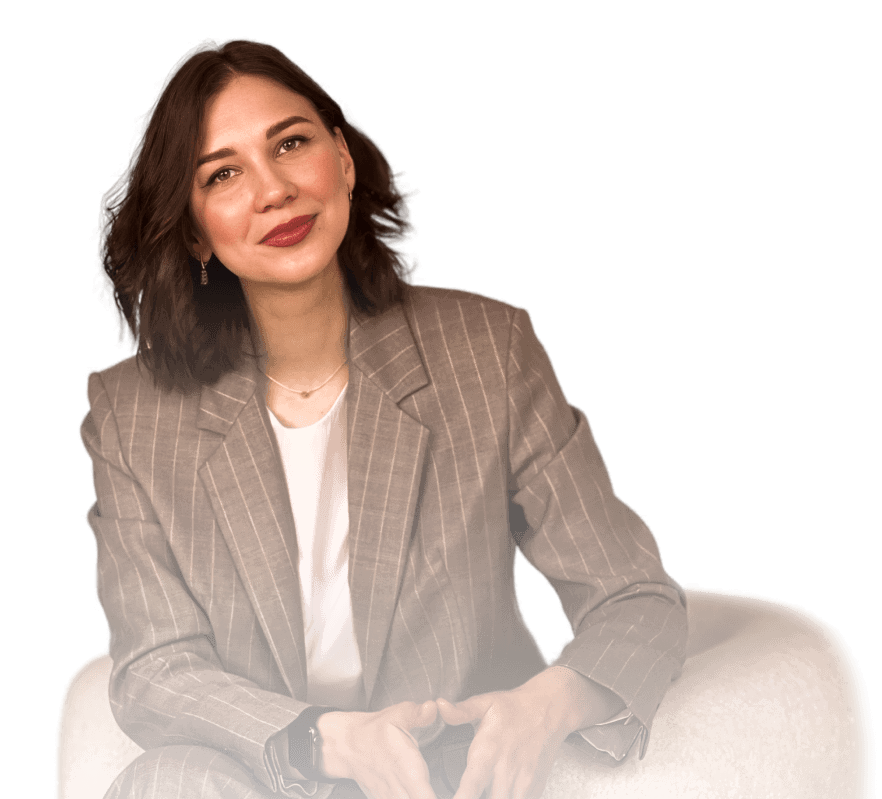
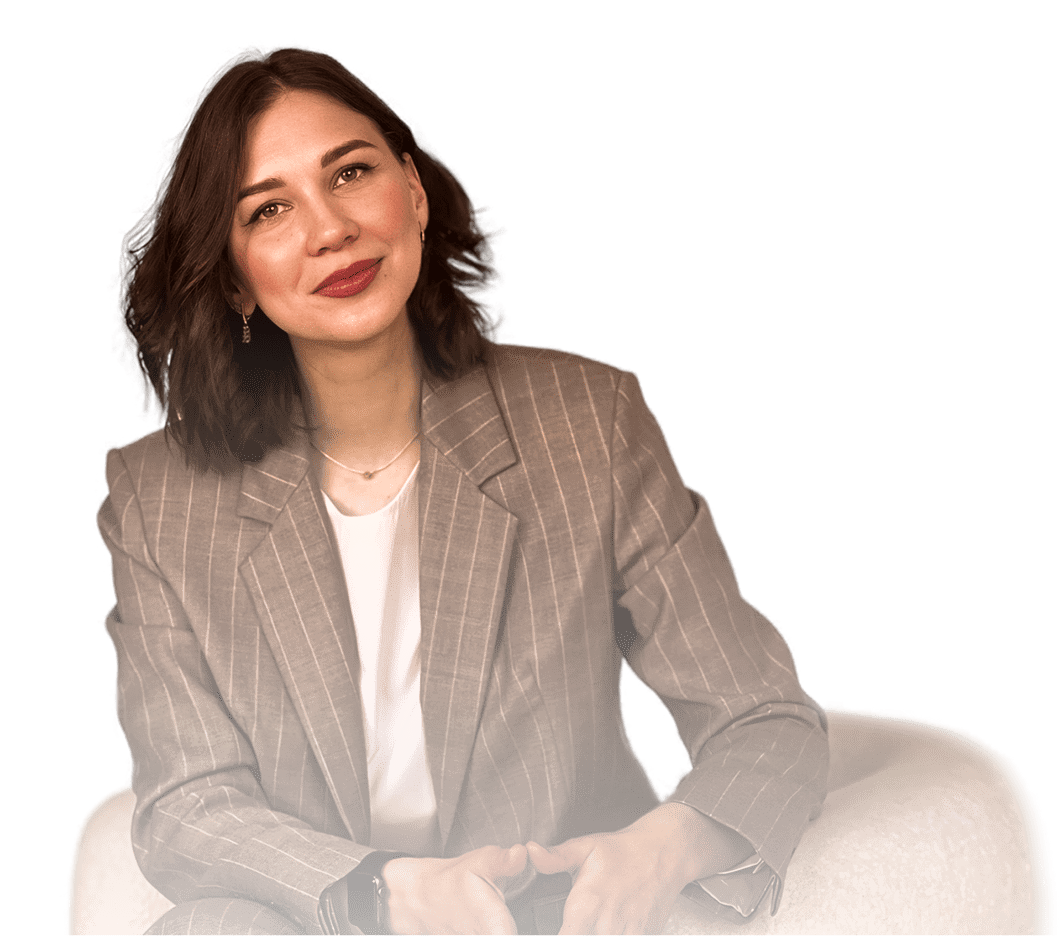
feature/стилизовать входной экран для десктопа

diff --git a/src/styles/layout/_header.scss b/src/styles/layout/_header.scss
@@ -1,35 +1,39 @@
 @use '../utils/helpers' as *;
 
 .header {
+  overflow: hidden;
   background: url(src/assets/img/header-bg.jpg) no-repeat top center scroll $color-light;
   background-size: cover;
 }
 
 .header__wrapper {
+  @extend %d-flex-column;
+  position: relative;
   padding: 356px 0 40px;
   background: url(src/assets/img/header-pic-mobile.png) no-repeat scroll -60px bottom rgba(0,0,0,0);
 
   @media #{$breakpoint-up-sm} {
+    gap: 45px 0;
     padding: 285px 0 0;
     background-position: right bottom;
     background-image: url(src/assets/img/header-pic-tablet.png);
   }
 
   @media #{$breakpoint-up-md} {
-    padding: 144px 0 0;
-    background-image: url(src/assets/img/header-pic.png);
-  }
-}
-
-.header__container {
-  @extend %d-flex-column;
-
-  @media #{$breakpoint-up-sm} {
-    gap: 45px 0;
-  }
-
-  @media #{$breakpoint-up-md} {
     gap: 60px 0;
+    padding: 144px 0 0;
+    background-image: url(src/assets/img/header-pic-desktop.png);
+  }
+
+  @media #{$breakpoint-up-lg} {
+    gap: 52px 0;
+    background-position: center bottom;
+  }
+
+  @media #{$breakpoint-up-xl} {
+    gap: 90px 0;
+    padding: 218px 0 0;
+    background-image: url(src/assets/img/header-pic.png);
   }
 }
 
@@ -42,15 +46,24 @@
   @media #{$breakpoint-up-sm} {
     display: grid;
     align-items: center;
-    justify-content: space-between;
     grid-template-areas:
       "reviews form"
       "title title";
     gap: 45px;
   }
 
-  @media #{$breakpoint-up-sm} {
+  @media #{$breakpoint-up-md} {
     gap: 140px;
+    justify-content: space-between;
+  }
+
+  @media #{$breakpoint-up-lg} {
+    gap: 130px;
+  }
+
+  @media #{$breakpoint-up-xl} {
+    gap: 150px;
+    max-width: 1712px;
   }
 }
 
@@ -72,10 +85,18 @@
   @media #{$breakpoint-up-md} {
     @include fs-lh(140px,120px);
   }
+
+  @media #{$breakpoint-up-lg} {
+    @include fs-lh(160px,140px);
+  }
+
+  @media #{$breakpoint-up-xl} {
+    @include fs-lh(180px,160px);
+    letter-spacing: -0.05em;
+  }
 }
 
 .header__bottom {
-  @include before;
   @include border(1px 0 0, rgba(255, 255, 255, .3));
   width: 100%;
   display: none;
@@ -89,15 +110,39 @@
     grid-template-columns: repeat(4, 1fr);
   }
 
+  @media #{$breakpoint-up-lg} {
+    border: 0;
+  }
+
+  @media #{$breakpoint-up-xl} {
+    max-width: 1712px;
+  }
+
   &:before {
+    content: '';
+
     @media #{$breakpoint-up-sm} {
-      @include pos(108px,0);
       @include wh(100%,1px);
+      position: absolute;
+      left: 0;
+      bottom: 108px;
       background-color: rgba(255, 255, 255, .3);
     }
 
     @media #{$breakpoint-up-md} {
       display: none;
+    }
+  }
+
+  &:after {
+    content: '';
+
+    @media #{$breakpoint-up-lg} {
+      @include wh(10000px,1px);
+      position: absolute;
+      left: 0;
+      bottom: 104px;
+      background-color: rgba(255, 255, 255, .3);
     }
   }
 }
@@ -122,17 +167,34 @@
   }
 
   &:nth-child(2n) {
-    border-width: 0;
+    @media #{$breakpoint-up-sm} {
+      border-width: 0;
+    }
+
+    @media #{$breakpoint-up-lg} {
+      border-width: 0 1px 0 0;
+    }
+  }
+
+  &:last-child {
+    @media #{$breakpoint-up-lg} {
+      border-width: 0;
+    }
   }
 }
 
 .header__reviews {
   display: grid;
+  justify-content: flex-start;
   grid-template-areas:
     "title title title"
     "row subtitle .";
   gap: 12px 16px;
   grid-area: reviews;
+
+  @media #{$breakpoint-up-lg} {
+    gap: 24px 16px;
+  }
 }
 
 .header__reviews-title {
@@ -141,6 +203,10 @@
   letter-spacing: -0.02em;
   color: $color-white;
   grid-area: title;
+
+  @media #{$breakpoint-up-lg} {
+    @include fs-lh(20px,24px);
+  }
 }
 
 .header__reviews-row {
@@ -182,12 +248,17 @@
   color: $color-white;
   grid-area: subtitle;
   max-width: 160px;
+
+  @media #{$breakpoint-up-lg} {
+    @include fs-lh(16px,20px);
+  }
 }
 
 .header__form {
+  @extend %d-flex-column;
   grid-area: form;
 
   @media #{$breakpoint-up-sm} {
-    max-width: 328px;
+    align-items: flex-end;
   }
 }

diff --git a/src/styles/utils/_breakpoints.scss b/src/styles/utils/_breakpoints.scss
@@ -1,29 +1,35 @@
 @use 'sass:list';
 
+$lg-max-value: 1680px;
 $md-max-value: 1365px;
 $sm-max-value: 991px;
 $xsm-max-value: 767px;
 $xxsm-max-value: 575px;
 
+$xl-min-value: $lg-max-value + 1;
 $lg-min-value: $md-max-value + 1;
 $md-min-value: $sm-max-value + 1;
 $sm-min-value: $xsm-max-value + 1;
 $xsm-min-value: $xxsm-max-value + 1;
 
+$lg-range: ($lg-min-value, $lg-max-value);
 $md-range: ($md-min-value, $md-max-value);
 $sm-range: ($sm-min-value, $sm-max-value);
 $xsm-range: ($xsm-min-value, $xsm-max-value);
 
+$breakpoint-up-xl: "(min-width: #{$xl-min-value})";
 $breakpoint-up-lg: "(min-width: #{$lg-min-value})";
 $breakpoint-up-md: "(min-width: #{$md-min-value})";
 $breakpoint-up-sm: "(min-width: #{$sm-min-value})";
 $breakpoint-up-xsm: "(min-width: #{$xsm-min-value})";
 
+$breakpoint-down-xl: "(max-width: #{$lg-max-value})";
 $breakpoint-down-lg: "(max-width: #{$md-max-value})";
 $breakpoint-down-md: "(max-width: #{$sm-max-value})";
 $breakpoint-down-sm: "(max-width: #{$xsm-max-value})";
 $breakpoint-down-xsm: "(max-width: #{$xxsm-max-value})";
 
+$breakpoint-only-lg: "(min-width: #{list.nth($lg-range, 1)}) and (max-width: #{list.nth($lg-range, 2)})";
 $breakpoint-only-md: "(min-width: #{list.nth($md-range, 1)}) and (max-width: #{list.nth($md-range, 2)})";
 $breakpoint-only-sm: "(min-width: #{list.nth($sm-range, 1)}) and (max-width: #{list.nth($sm-range, 2)})";
 $breakpoint-only-xsm: "(min-width: #{list.nth($xsm-range, 1)}) and (max-width: #{list.nth($xsm-range, 2)})";

diff --git a/src/styles/components/_nav.scss b/src/styles/components/_nav.scss
@@ -9,10 +9,6 @@
   color: $color-white;
   transition: all .3s ease;
 
-  @media #{$breakpoint-up-lg} {
-    position: static;
-  }
-
   &.is-visible {
     height: 100%;
     background-color: $color-dark;
@@ -74,6 +70,10 @@
   @media #{$breakpoint-up-lg} {
     flex-direction: row;
     justify-content: space-between;
+  }
+
+  @media #{$breakpoint-up-xl} {
+    max-width: 1712px;
   }
 }
 

diff --git a/src/styles/main.scss b/src/styles/main.scss
@@ -1,10 +1,10 @@
 @use 'base/reset';
 @use 'base/fonts';
 @use 'base/typography';
+@use 'layout/container';
+@use 'layout/section';
 @use 'layout/header';
 @use 'layout/footer';
-@use 'layout/section';
-@use 'layout/container';
 @use 'components/btn';
 @use 'components/nav';
 @use 'components/logo';

diff --git a/src/styles/components/_form.scss b/src/styles/components/_form.scss
@@ -1,5 +1,11 @@
 @use '../utils/helpers' as *;
 
+.form {
+  &.form_width_min {
+    max-width: 328px;
+  }
+}
+
 .form__fieldset {
   @extend %d-flex-column;
   border: 0;

diff --git a/src/styles/layout/_container.scss b/src/styles/layout/_container.scss
@@ -3,5 +3,5 @@
 .container {
   @include mx(auto);
   @include px(16px);
-  max-width: 1680px;
+  max-width: 1648px;
 }
